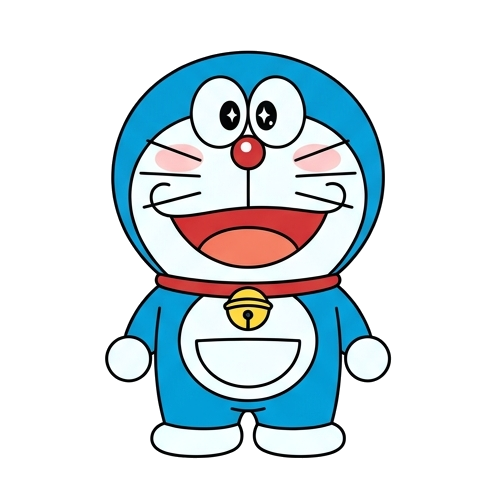
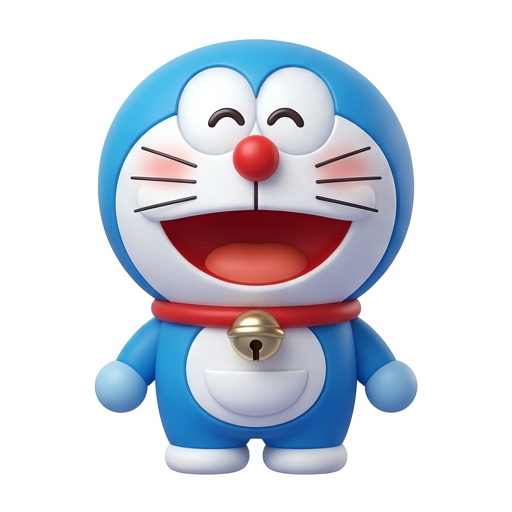
feat: upgrade to premium 3D vinyl chibi Doraemon with compact sizing and smooth frame animations

diff --git a/src/TranslatePet.UI/Views/PetWindow.xaml b/src/TranslatePet.UI/Views/PetWindow.xaml
@@ -2,7 +2,7 @@
         xmlns="http://schemas.microsoft.com/winfx/2006/xaml/presentation"
         xmlns:x="http://schemas.microsoft.com/winfx/2006/xaml"
         Title="哆啦A梦" 
-        Height="150" Width="135"
+        Height="115" Width="105"
         WindowStyle="None"
         AllowsTransparency="True"
         Background="Transparent"
@@ -16,25 +16,25 @@
         Loaded="OnLoaded"
         Closing="OnClosing">
     <Window.Resources>
-        <!-- 基础物理浮动与呼吸动画 -->
+        <!-- 精致轻缓的物理浮动与呼吸微动效 -->
         <Storyboard x:Key="FloatStoryboard" RepeatBehavior="Forever" AutoReverse="True">
             <DoubleAnimation Storyboard.TargetName="PetTransform"
                              Storyboard.TargetProperty="Y"
-                             From="0" To="-7" Duration="0:0:1.5">
+                             From="0" To="-5.5" Duration="0:0:1.5">
                 <DoubleAnimation.EasingFunction>
                     <SineEase EasingMode="EaseInOut"/>
                 </DoubleAnimation.EasingFunction>
             </DoubleAnimation>
             <DoubleAnimation Storyboard.TargetName="ShadowEllipse"
                              Storyboard.TargetProperty="Opacity"
-                             From="0.32" To="0.16" Duration="0:0:1.5">
+                             From="0.30" To="0.14" Duration="0:0:1.5">
                 <DoubleAnimation.EasingFunction>
                     <SineEase EasingMode="EaseInOut"/>
                 </DoubleAnimation.EasingFunction>
             </DoubleAnimation>
             <DoubleAnimation Storyboard.TargetName="ShadowScale"
                              Storyboard.TargetProperty="ScaleX"
-                             From="1.0" To="0.84" Duration="0:0:1.5">
+                             From="1.0" To="0.82" Duration="0:0:1.5">
                 <DoubleAnimation.EasingFunction>
                     <SineEase EasingMode="EaseInOut"/>
                 </DoubleAnimation.EasingFunction>
@@ -43,37 +43,37 @@
     </Window.Resources>
 
     <Grid x:Name="PetRoot" Cursor="Hand">
-        <!-- 底部地面阴影 (随浮动缩放) -->
-        <Ellipse x:Name="ShadowEllipse" Width="72" Height="14" VerticalAlignment="Bottom" HorizontalAlignment="Center" Margin="0,0,0,4" Opacity="0.32">
+        <!-- 底部细腻接触阴影 -->
+        <Ellipse x:Name="ShadowEllipse" Width="58" Height="10" VerticalAlignment="Bottom" HorizontalAlignment="Center" Margin="0,0,0,3" Opacity="0.30">
             <Ellipse.RenderTransform>
-                <ScaleTransform x:Name="ShadowScale" CenterX="36" CenterY="7" ScaleX="1"/>
+                <ScaleTransform x:Name="ShadowScale" CenterX="29" CenterY="5" ScaleX="1"/>
             </Ellipse.RenderTransform>
             <Ellipse.Fill>
                 <RadialGradientBrush>
-                    <GradientStop Color="#70000000" Offset="0"/>
+                    <GradientStop Color="#60000000" Offset="0"/>
                     <GradientStop Color="#00000000" Offset="1"/>
                 </RadialGradientBrush>
             </Ellipse.Fill>
         </Ellipse>
 
-        <!-- 哆啦A梦逐帧动画角色容器 (无任何文字/字体) -->
-        <Grid VerticalAlignment="Top" HorizontalAlignment="Center" Height="136" Width="125" Margin="0,0,0,10">
+        <!-- 超Q版高质感哆啦A梦 (紧凑小巧，纯净无字) -->
+        <Grid VerticalAlignment="Top" HorizontalAlignment="Center" Height="102" Width="95" Margin="0,0,0,8">
             <Grid.RenderTransform>
                 <TransformGroup>
                     <TranslateTransform x:Name="PetTransform" Y="0"/>
-                    <ScaleTransform x:Name="PetHoverScale" CenterX="62.5" CenterY="68" ScaleX="1" ScaleY="1"/>
-                    <RotateTransform x:Name="PetRotateTransform" CenterX="62.5" CenterY="68" Angle="0"/>
+                    <ScaleTransform x:Name="PetHoverScale" CenterX="47.5" CenterY="51" ScaleX="1" ScaleY="1"/>
+                    <RotateTransform x:Name="PetRotateTransform" CenterX="47.5" CenterY="51" Angle="0"/>
                 </TransformGroup>
             </Grid.RenderTransform>
 
-            <!-- 逐帧动作显示画布 (Frame 0: 待机 / Frame 1: 眨眼 / Frame 2: 开心 / Frame 3: 招手) -->
+            <!-- 逐帧动作显示画布 (高质量缩放模式) -->
             <Image x:Name="CharacterFrameImage"
                    Stretch="Uniform"
                    RenderOptions.BitmapScalingMode="HighQuality"
                    VerticalAlignment="Center"
                    HorizontalAlignment="Center">
                 <Image.Effect>
-                    <DropShadowEffect BlurRadius="12" ShadowDepth="2" Direction="270" Color="#004D73" Opacity="0.32"/>
+                    <DropShadowEffect BlurRadius="10" ShadowDepth="2" Direction="270" Color="#003550" Opacity="0.28"/>
                 </Image.Effect>
             </Image>
         </Grid>
